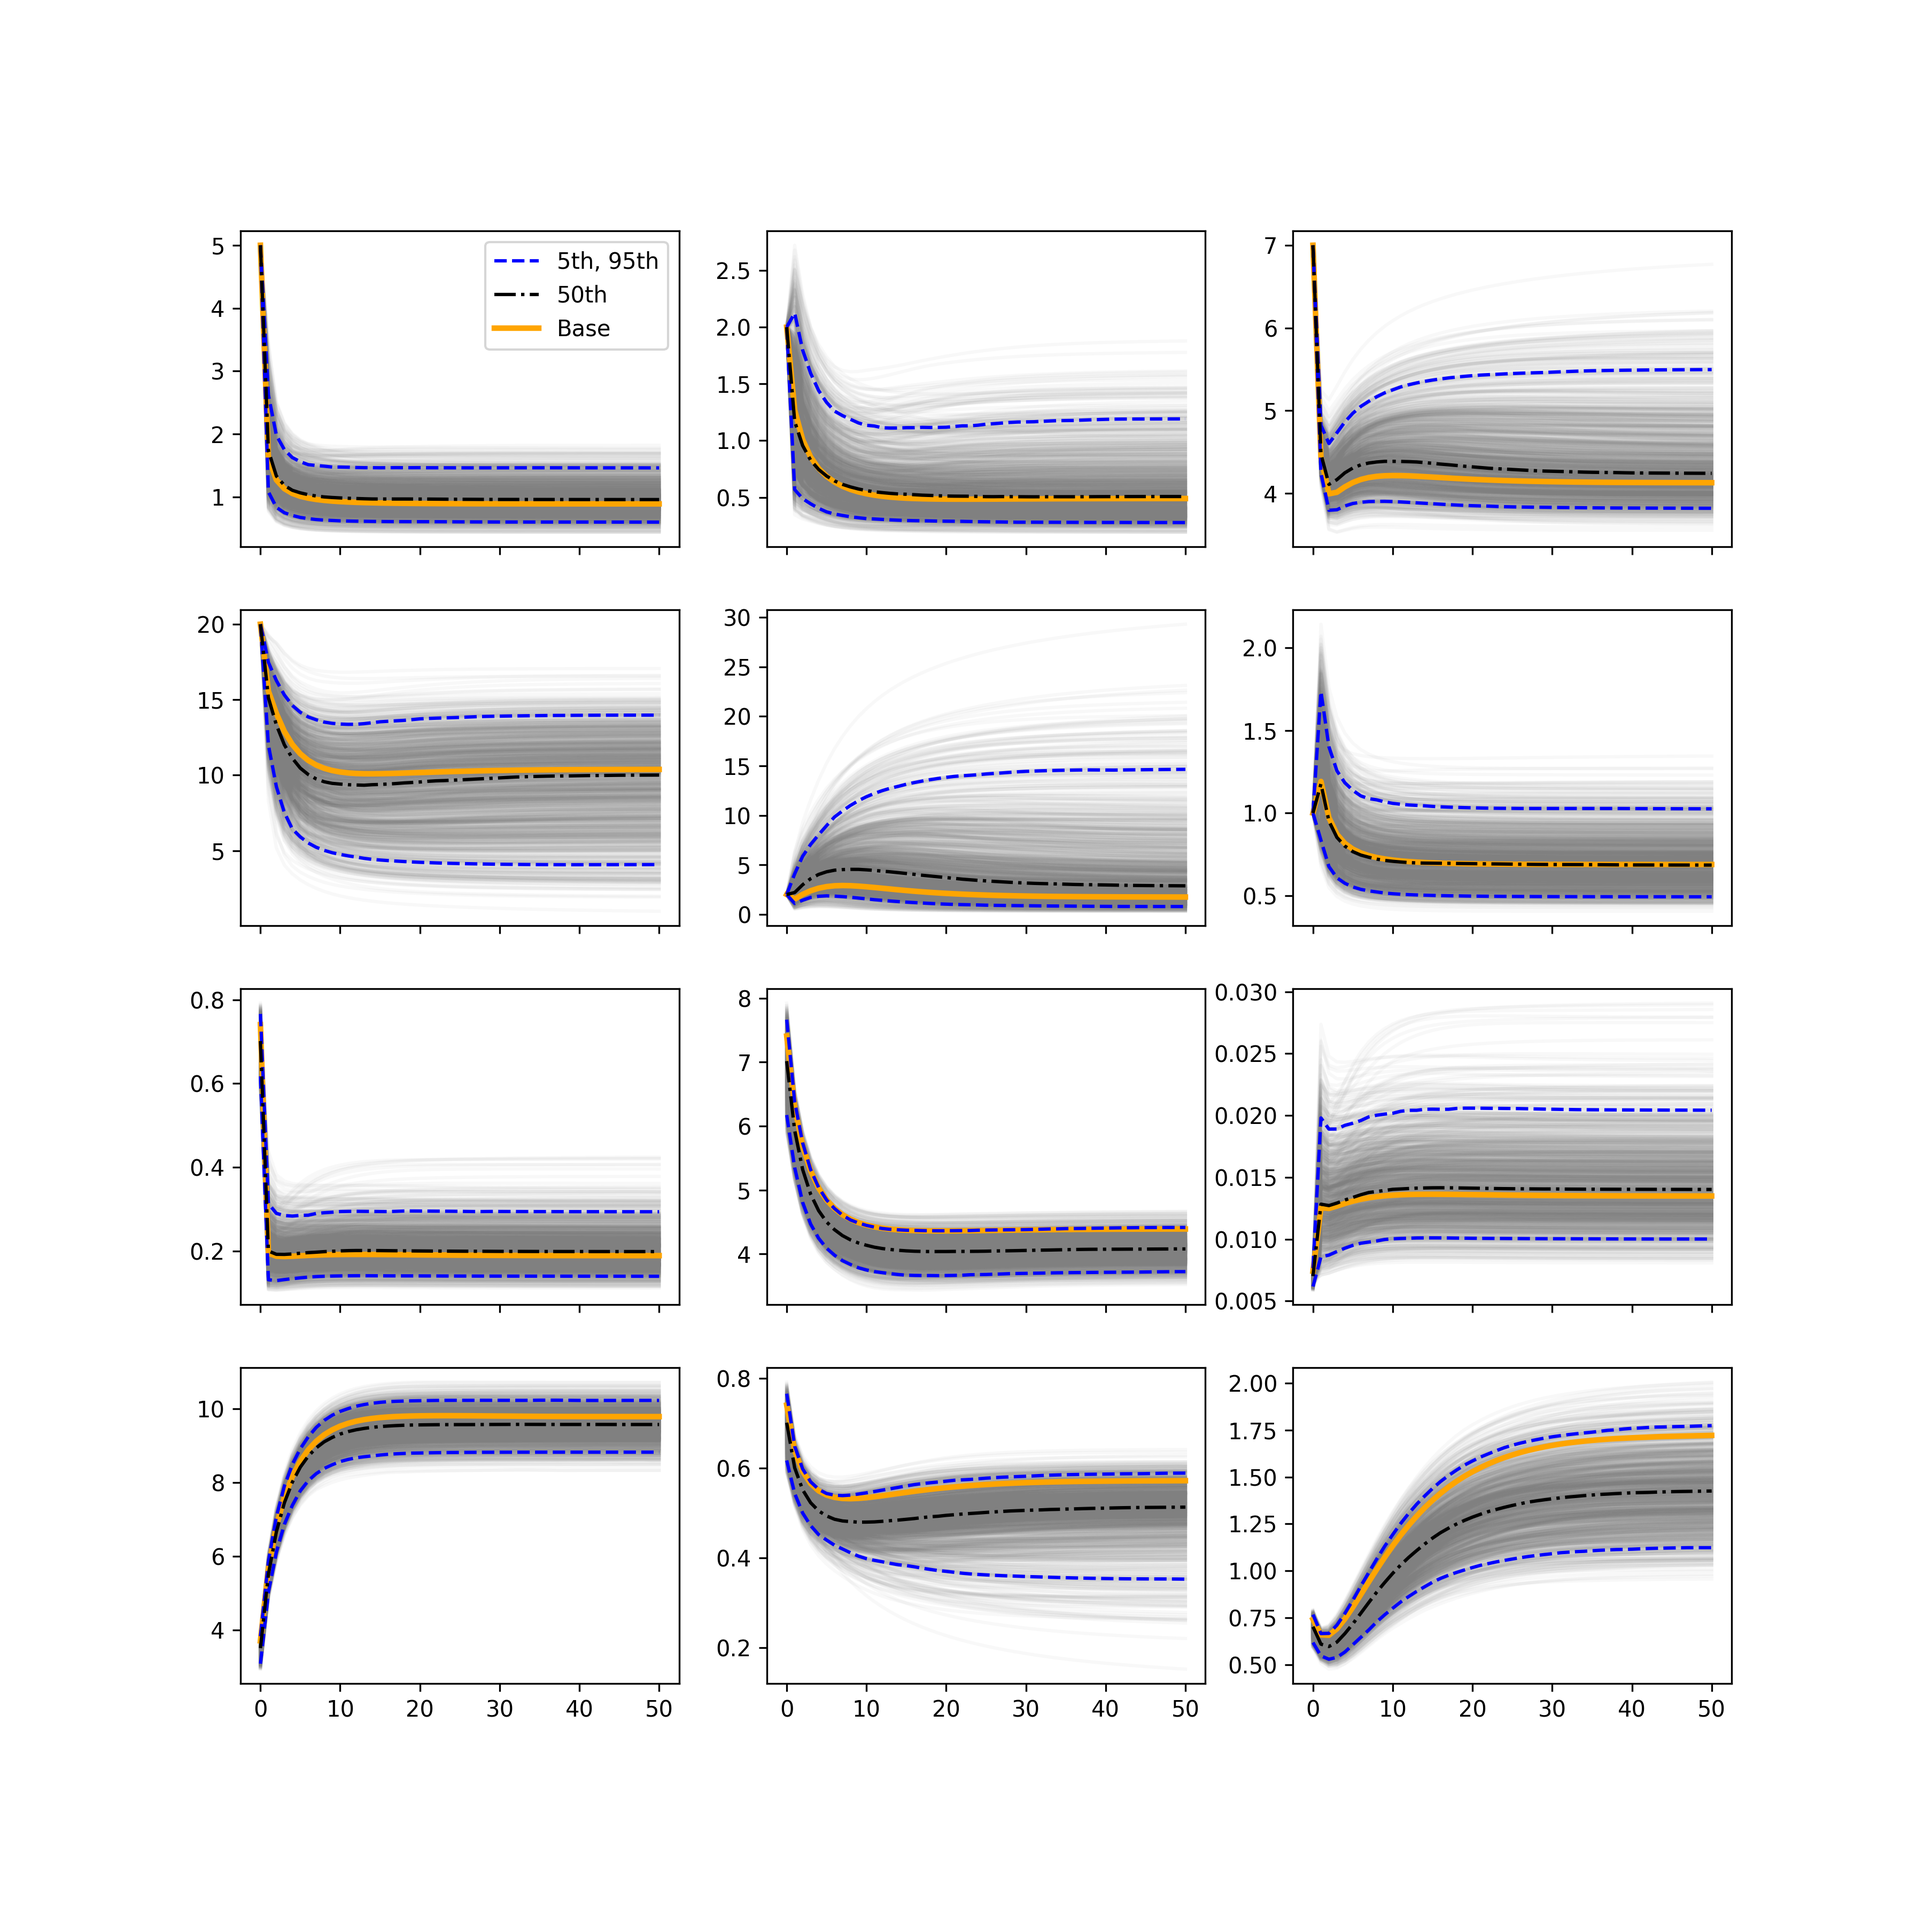
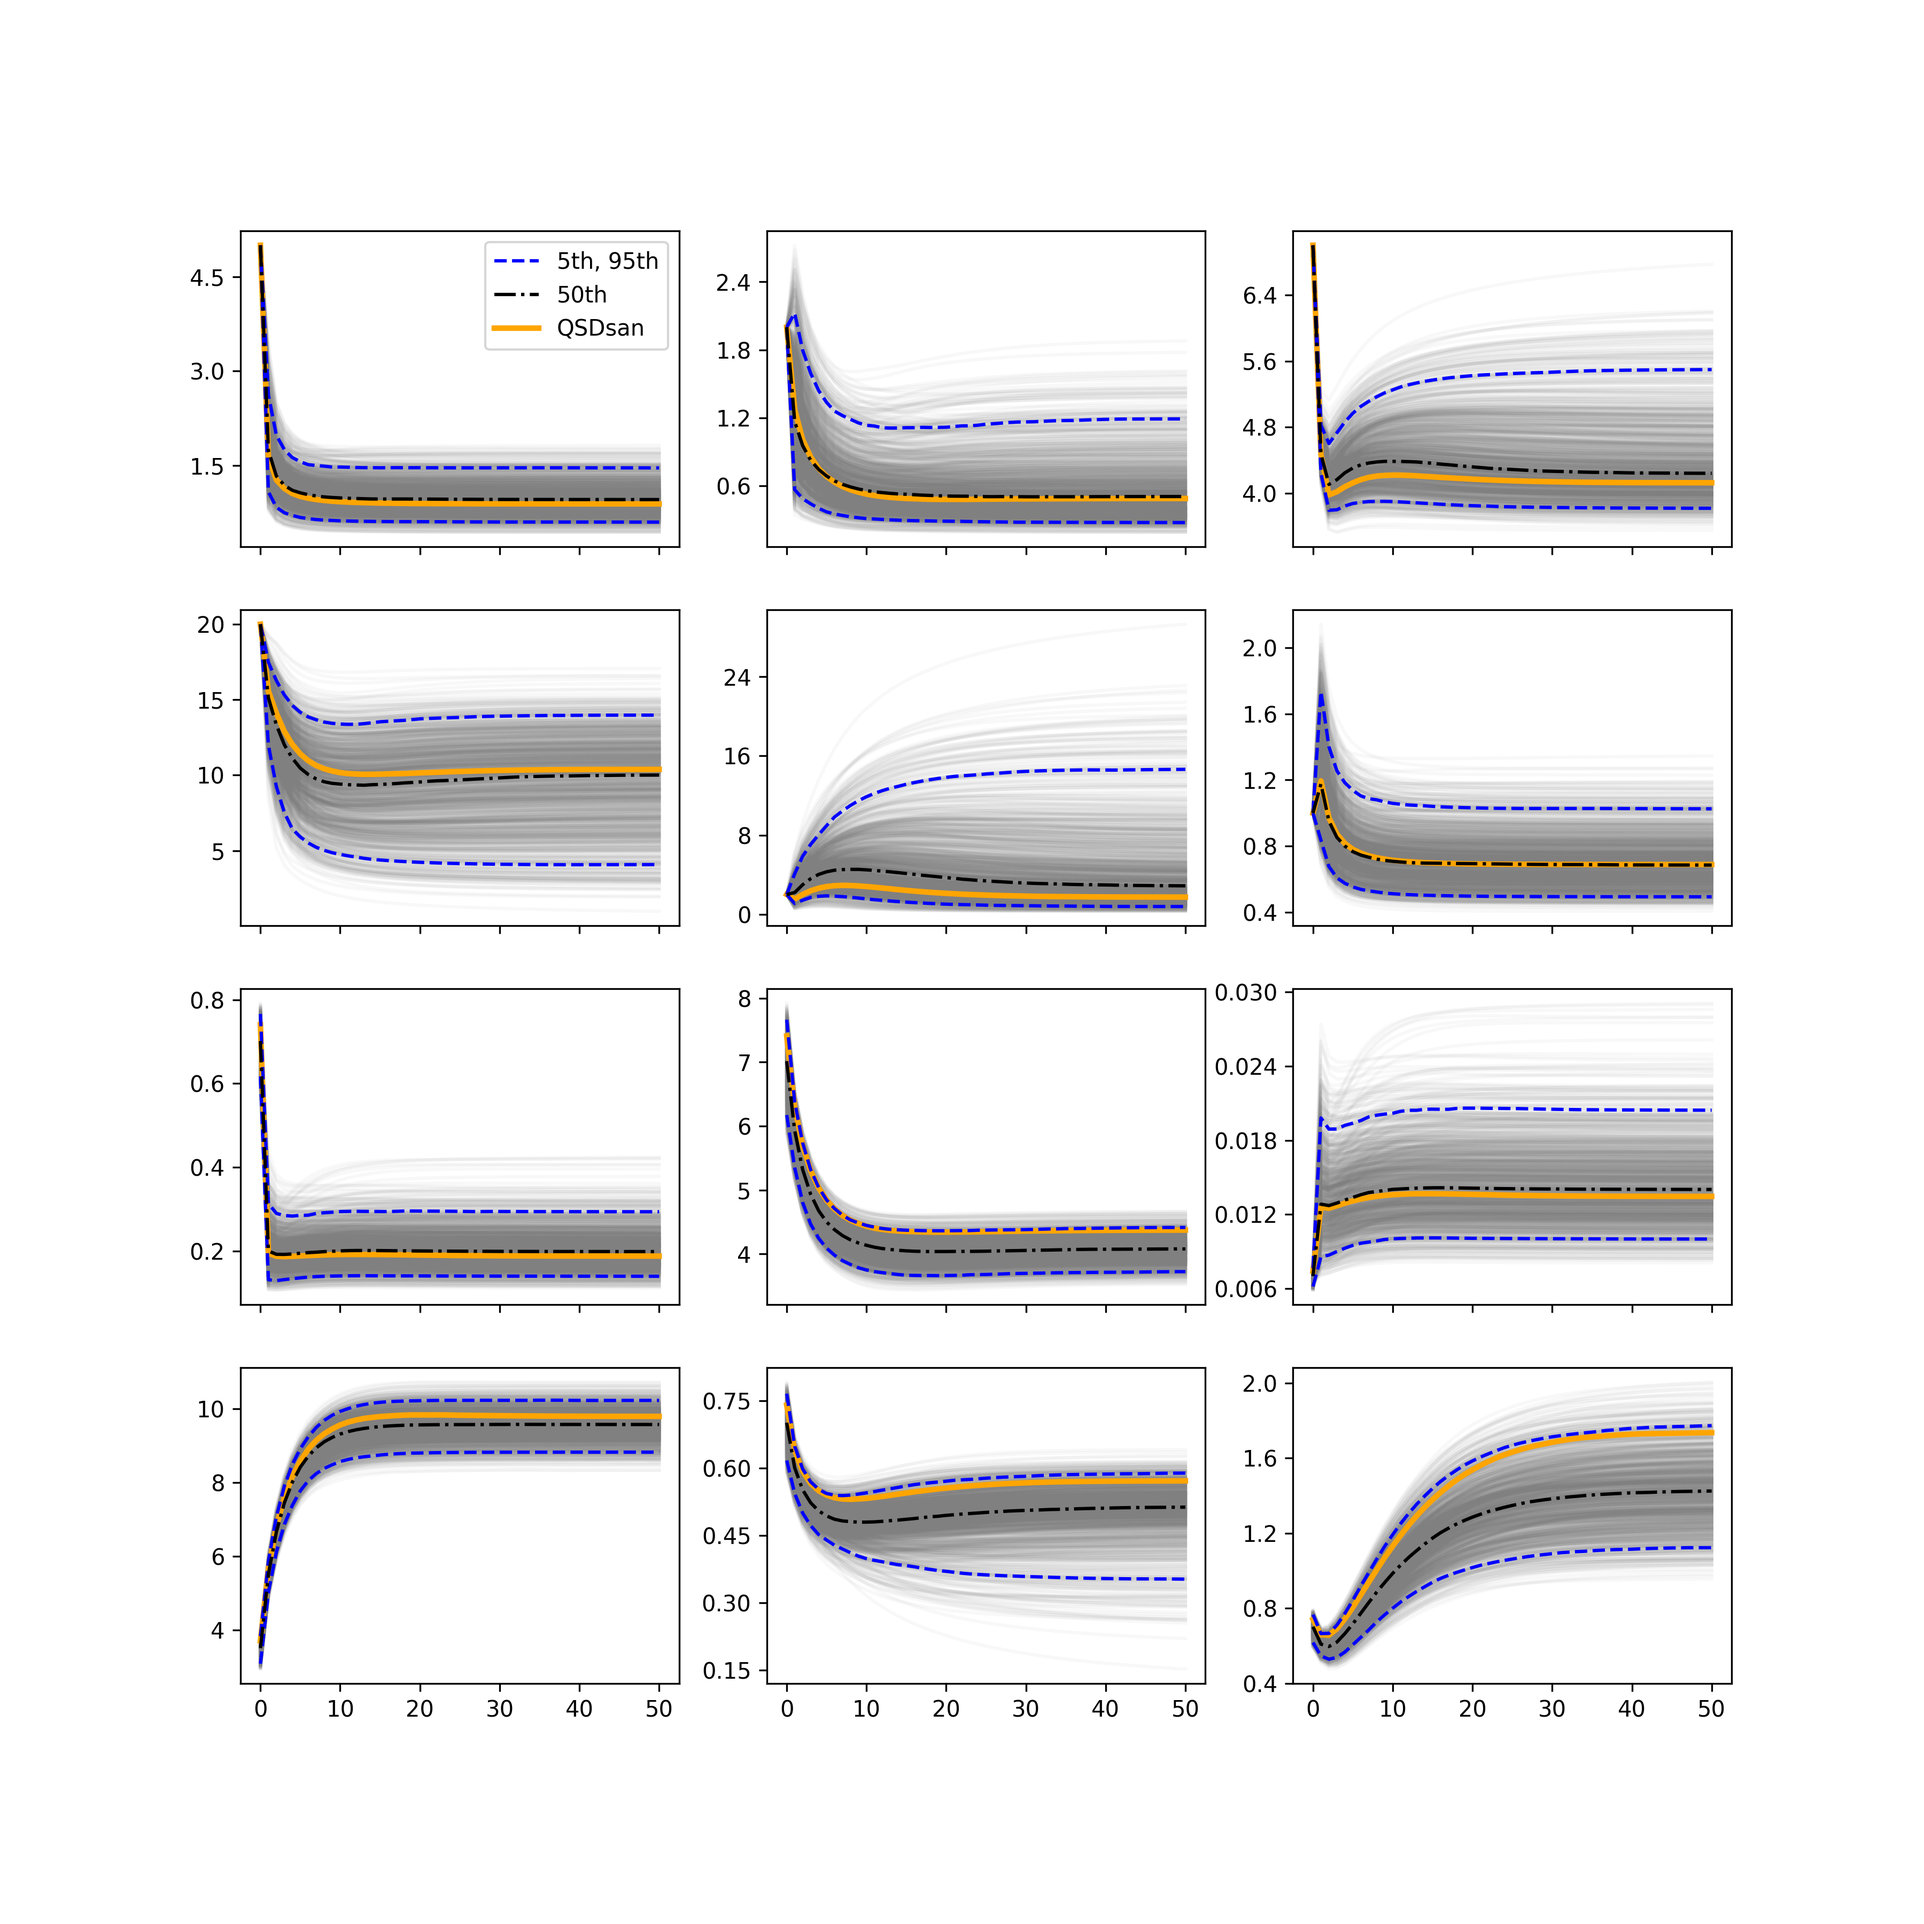
updated analysis and figures

diff --git a/exposan/bsm1/analyses.py b/exposan/bsm1/analyses.py
@@ -82,7 +82,7 @@ keys = ['S_S', 'S_O', 'S_ALK',
 irows = [0,0,0,1,1,1,2,2,2,3,3,3]
 icols = [0,1,2,0,1,2,0,1,2,0,1,2]
 plots = zip(keys, irows, icols)
-def plot_SE_timeseries(seed, data=None):
+def plot_SE_timeseries(seed, N, data=None):
     if data is None:
         try:
             path = os.path.join(results_path, f'SE_vars_{seed}.pckl')
@@ -96,7 +96,7 @@ def plot_SE_timeseries(seed, data=None):
                         skiprows=[0,2], header=0, usecols='B,DF:DQ')
     bl_data.columns = [col.split(' ')[0] for col in bl_data.columns]
     bl_data.S_ALK = bl_data.S_ALK/12
-    fig, axes = plt.subplots(4, 3, sharex=True, figsize=(12, 12))
+    fig, axes = plt.subplots(4, 3, sharex=True, figsize=(12,12))
     for var, ir, ic in plots:
         df = data[var]
         ax = axes[ir, ic]
@@ -114,6 +114,8 @@ def plot_SE_timeseries(seed, data=None):
                       label='50th')
         # lbm,  = ax.plot(df.t, bm_data.loc[:, var],
         #               color='black', linestyle='-.', label='Matlab/Simulink')
+        # ax.yaxis.set_major_locator(plt.MaxNLocator(5))
+        # if var == 'X_ND': ax.yaxis.set_major_formatter(plt.FormatStrFormatter('%.3f'))
         if ir == 0 and ic == 0: ax.legend(handles=[l5, l50, lbl])
         # if ir == 0 and ic == 0: ax.legend(handles=[lbl, lbm])
     fig.savefig(os.path.join(figures_path, 'effluent_yt.png'), dpi=300)
@@ -123,7 +125,7 @@ def UA_w_all_params():
     seed = int(str(time())[-3:])
     run_uncertainty(mdl, N, T, t_step, method='BDF', seed=seed)
     out = analyze_SE_vars(seed)
-    fig, ax = plot_SE_timeseries(seed, data=out)
+    fig, ax = plot_SE_timeseries(seed, N, data=out)
     
 #%% 
 #!!! DO NOT UNCOMMENT !!!
@@ -153,9 +155,12 @@ def plot_kde2d_metrics(model):
         i, j = ids
         x, y = names
         fig, ax = plot_uncertainties(model, x_axis=metrics[i], y_axis=metrics[j],
-                                     kind='kde-hist', center_kws={'fill':True},
-                                     margin_kws={'kde':True, 'fill':True})
+                                      kind='kde-hist', center_kws={'fill':True},
+                                      margin_kws={'kde':True, 'fill':True})
         fig.savefig(os.path.join(figures_path, f'{x}_vs_{y}.png'))
+    fig, ax = plot_uncertainties(model, x_axis=metrics[6], kind='hist', 
+                                 center_kws={'kde':True})
+    fig.savefig(os.path.join(figures_path, 'SRT_hist.png'))
 
 thresholds = [100, 30, 19, 3, 30] # Effluent COD, BOD5, TN, TKN, TSS
 def run_ks_test(model):
@@ -239,6 +244,13 @@ def dv_analysis(n=20, T=50, t_step=1, save_to='table_2dv.xlsx'):
     # plot_heatmaps(xx, yy, n, path=os.path.join(results_path, save_to))
     
 #%% 50-d simulations with different initial conditions
+keys_wide = ['S_S', 'S_NO', 'X_S', 'X_BH', 
+             'S_O', 'S_NH', 'X_I', 'X_BA',
+             'S_ALK', 'S_ND', 'X_ND', 'X_P']
+irows_wide = [0,0,0,0,1,1,1,1,2,2,2,2]
+icols_wide = [0,1,2,3,0,1,2,3,0,1,2,3]
+plots_wide = zip(keys_wide, irows_wide, icols_wide)
+
 def plot_SE_yt_w_diff_init(seed, N, data=None):
     if data is None:
         try:
@@ -249,16 +261,19 @@ def plot_SE_yt_w_diff_init(seed, N, data=None):
     bm_data = load_data(os.path.join(results_path, 'matlab_exported_data.xlsx'),
                         sheet='Data_ASin_changed', header=1, skiprows=0, usecols='A,CU:DF')
     bm_data.columns = [col.rstrip('.6') for col in bm_data.columns]
-    fig, axes = plt.subplots(4, 3, sharex=True, figsize=(12, 12))
-    for var, ir, ic in plots:
+    fig, axes = plt.subplots(3, 4, sharex=True, figsize=(15, 8))
+    for var, ir, ic in plots_wide:
         df = data[var]
         ax = axes[ir, ic]
         ax.plot(df.t, df.iloc[:,:N], 
                 color='grey', linestyle='-', alpha=0.3)
-        ax.plot(df.t, bm_data.loc[:, var],
-                color='red', linestyle='-.', label='Matlab/Simulink')
-
-    fig.savefig(os.path.join(figures_path, 'effluent_yt_wdiff_init.png'), dpi=300)
+        lbm, = ax.plot(df.t, bm_data.loc[:, var],
+                       color='red', linestyle='-.', label='MATLAB/Simulink')
+        ax.yaxis.set_major_locator(plt.MaxNLocator(5))
+        if var == 'X_ND': ax.yaxis.set_major_formatter(plt.FormatStrFormatter('%.3f'))
+        if ir == 0 and ic == 0: ax.legend(handles=[lbm])
+    plt.subplots_adjust(wspace=0.21, hspace=0.1)
+    fig.savefig(os.path.join(figures_path, 'effluent_yt_wdiff_init_wide.png'), dpi=300)
     return fig, ax
 
 def UA_w_diff_inits(N=100):
@@ -272,5 +287,7 @@ def UA_w_diff_inits(N=100):
 if __name__ == '__main__':
     # UA_w_all_params()
     # run_sensitivity(157)
-    dv_analysis()
-    # UA_w_diff_inits()
+    # dv_analysis()
+    # plot_SE_timeseries(seed=157, N=1000)
+    # plot_SE_yt_w_diff_init(seed=708, N=100)
+    UA_w_diff_inits()

diff --git a/exposan/bsm1/system.py b/exposan/bsm1/system.py
@@ -109,6 +109,11 @@ O3 = su.CSTR('O3', O2-0, [RE, 'treated'], split=[0.6, 0.4],
              V_max=V_ae, aeration=aer2,
               DO_ID='S_O', suspended_growth_model=asm1)
 
+# C1 = su.FlatBottomCircularClarifier('C1', O3-1, [SE, RAS, WAS],
+#                                     underflow=Q_ras, wastage=Q_was, surface_area=1500,
+#                                     height=4, N_layer=10, feed_layer=5,
+#                                     X_threshold=3000, v_max=474, v_max_practical=250,
+#                                     rh=5.76e-4, rp=2.86e-3, fns=2.28e-3)
 
 C1 = su.FlatBottomCircularClarifier('C1', O3-1, ['', RAS, WAS],
                                     underflow=Q_ras, wastage=Q_was, surface_area=1500,
@@ -139,6 +144,9 @@ batch_init(os.path.join(bsm1_path, 'data/initial_conditions.xlsx'), 'default')
 
 ############# system simulation ############################
 bsm1 = System('BSM1', path=(A1, A2, O1, O2, O3, C1, S1), recycle=(RE, RAS))
+# bio = System('Bio', path=(A1, A2, O1, O2, O3), recycle=(RE,))
+# bsm1 = System('BSM1', path=(bio, C1, S1), recycle=(RAS,))
+# bsm1 = System('BSM1', path=(A1, A2, O1, O2, O3, C1), recycle=(RE, RAS))
 
 bsm1.set_tolerance(rmol=1e-6)
 bio_IDs = ('X_BH', 'X_BA')
